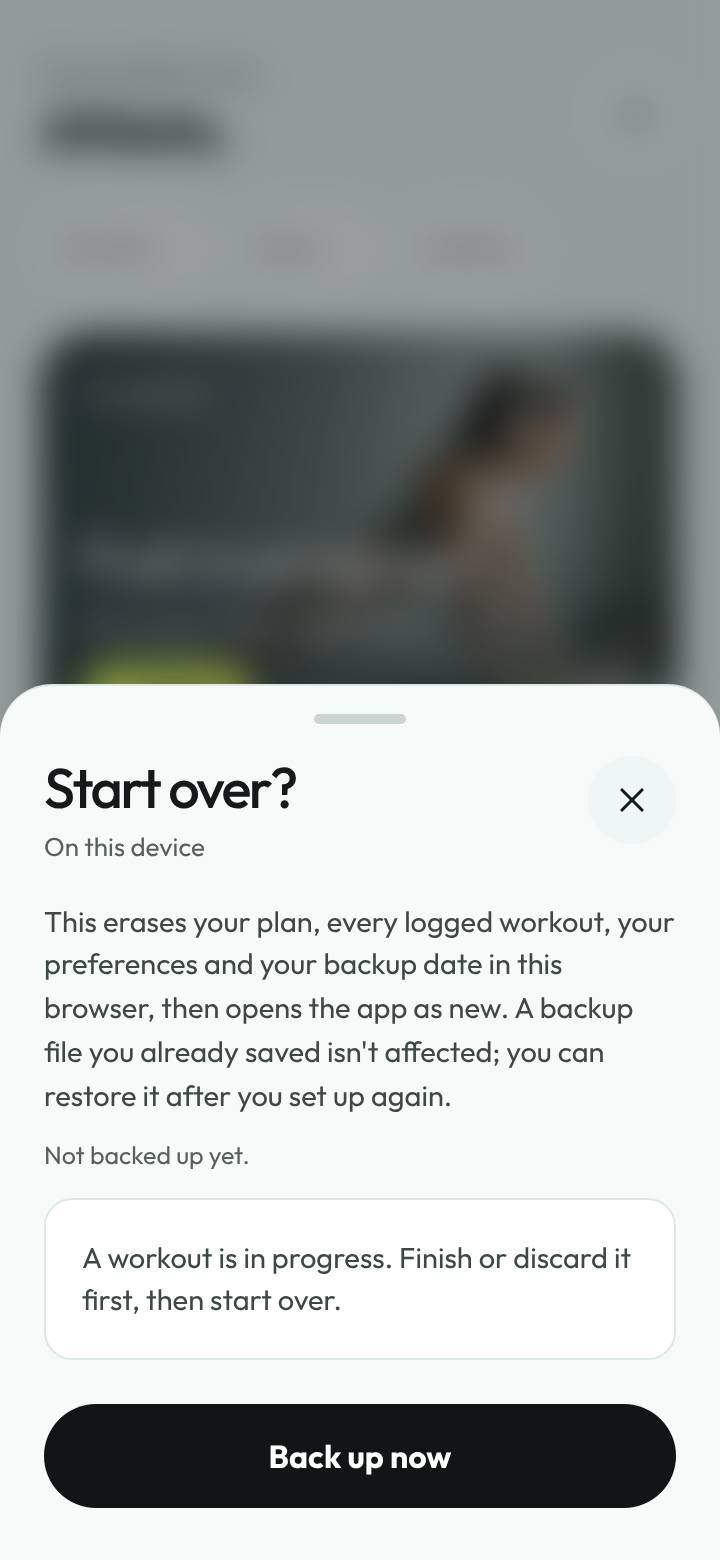
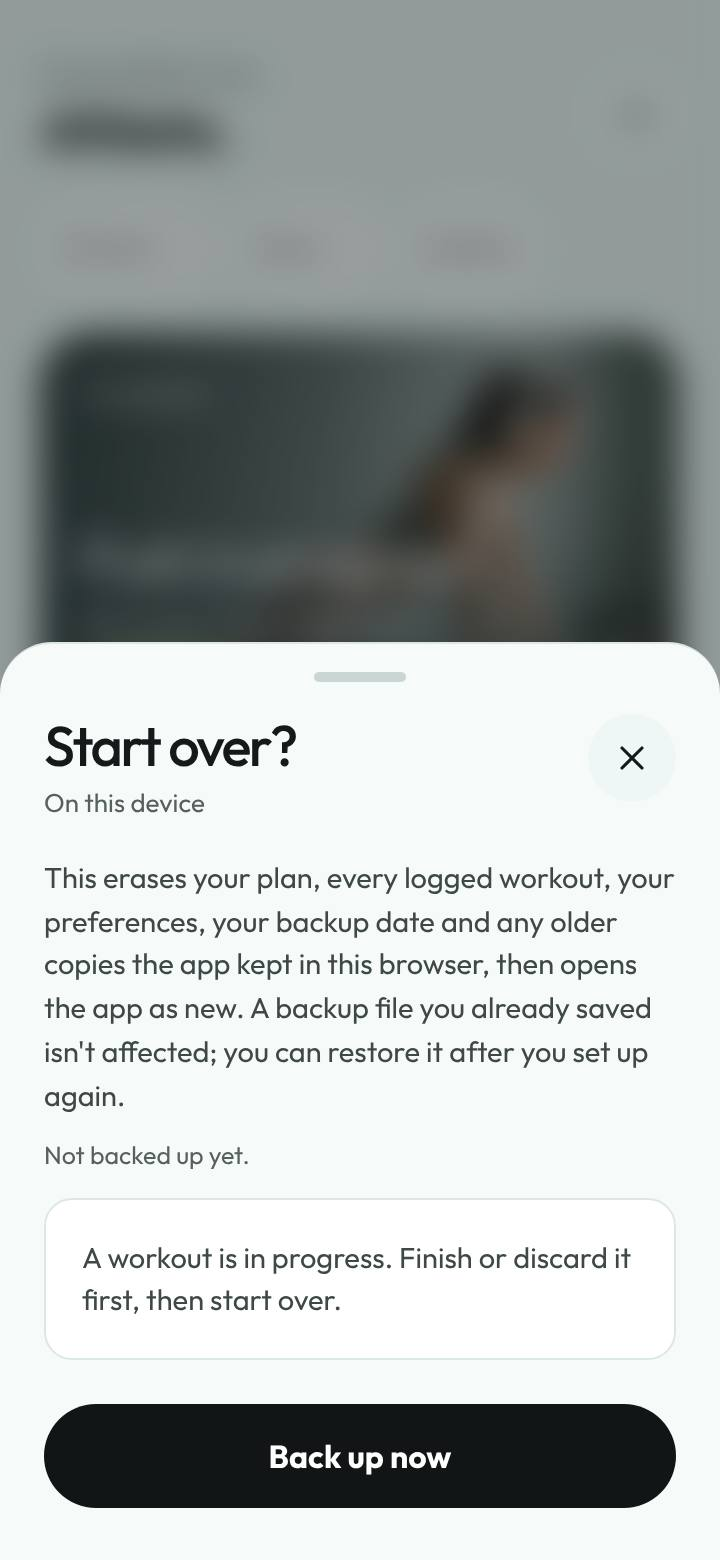
fix: Start over erases every key the app owns, not just two (#263)
fitbod-clone-v1:corrupt-backup holds old profile data, so erasing only
the record and its legacy copy left part of the old profile behind.
eraseLocalData now collects fitbod-clone-v1 and every fitbod-clone-v1:*
key before removing them, the main record last, and on a refusal names
the keys still stored. Other apps' keys (other-app, fitbod-clone-v2)
stay untouched. The sheet says older copies go too; screenshots
refreshed.

Claude-Session: https://claude.ai/code/session_01LzbJhBTy2WSPNAhmn6bBfG

Changed region(s): [[0.0, 0.4, 1.0, 0.7077]]

diff --git a/tests/startOver263.test.ts b/tests/startOver263.test.ts
@@ -44,18 +44,18 @@ function memoryStore(entries: Record<string, string> = {}, fail: { remove?: stri
 
 /* ---------- T1: eraseLocalData ---------- */
 
-test('erase removes exactly the app keys and leaves every other key alone', () => {
+test('erase removes every key the app owns and leaves other apps alone', () => {
   const store = memoryStore({
     [STORAGE_KEY]: '{"saved":true}',
     [LEGACY_BACKUP_KEY]: '{"old":true}',
+    'fitbod-clone-v1:corrupt-backup': '{"profile":{"name":"Old"}}',
+    'fitbod-clone-v1:anything-later': 'x',
     'other-app': 'keep',
-    'fitbod-clone-v1:corrupt-backup': 'keep too',
+    'fitbod-clone-v2': 'keep too',
+    'fitbod-clone-v1-extra': 'not ours either',
   });
   assert.deepEqual(eraseLocalData(store), { ok: true });
-  assert.deepEqual([...store.map.entries()].sort(), [
-    ['fitbod-clone-v1:corrupt-backup', 'keep too'],
-    ['other-app', 'keep'],
-  ]);
+  assert.deepEqual([...store.map.keys()].sort(), ['fitbod-clone-v1-extra', 'fitbod-clone-v2', 'other-app']);
 });
 
 test('erase succeeds when the keys were never written (nothing to remove)', () => {
@@ -64,22 +64,26 @@ test('erase succeeds when the keys were never written (nothing to remove)', () =
   assert.equal(store.map.get('other-app'), 'keep');
 });
 
-test('storage that refuses the erase reports it, with a way forward, and keeps the plan and workouts', () => {
-  for (const remove of [LEGACY_BACKUP_KEY, STORAGE_KEY, '*']) {
-    const store = memoryStore({ [STORAGE_KEY]: 'data', [LEGACY_BACKUP_KEY]: 'old' }, { remove });
+test('storage that throws mid-way says so, names what is left, and the main record goes last', () => {
+  const entries = { [STORAGE_KEY]: 'data', [LEGACY_BACKUP_KEY]: 'old', 'fitbod-clone-v1:corrupt-backup': 'older' };
+  for (const remove of [LEGACY_BACKUP_KEY, 'fitbod-clone-v1:corrupt-backup', STORAGE_KEY, '*']) {
+    const store = memoryStore(entries, { remove });
     const result = eraseLocalData(store);
     assert.equal(result.ok, false, `refused remove of ${remove}`);
     if (!result.ok) {
-      assert.match(result.error, /still here/);
+      assert.deepEqual(result.left, [...store.map.keys()].sort(), 'left names exactly what is still stored');
+      assert.ok(result.left.includes(STORAGE_KEY));
+      assert.match(result.error, /plan and workouts are still here/);
       assert.match(result.error, /Try again|site data/);
     }
     assert.equal(store.map.get(STORAGE_KEY), 'data', 'the main record is never the half that went');
   }
 });
 
-test('unreachable storage, a throwing read and a silent no-op all fail loudly', () => {
+test('unreachable storage, a throwing listing and a silent no-op all fail loudly', () => {
   assert.equal(eraseLocalData(null).ok, false);
-  assert.equal(eraseLocalData(memoryStore({ [STORAGE_KEY]: 'data' }, { get: true })).ok, false);
+  const unlisted = { ...memoryStore({ [STORAGE_KEY]: 'data' }), key: () => { throw new Error('blocked'); }, length: 1 };
+  assert.equal(eraseLocalData(unlisted).ok, false, 'storage that cannot be listed is not erased');
   const stuck = { ...memoryStore({ [STORAGE_KEY]: 'data' }), removeItem: () => undefined };
   assert.equal(eraseLocalData(stuck).ok, false, 'a removal that did not happen is not a success');
 });
@@ -166,7 +170,7 @@ test('the sheet names what goes, spares backup files, and puts Back up now befor
       sessionOpen: false, onBackup: async () => null, onErase: () => ({ ok: true }), onClose: noop,
     }));
     const text = plain(html);
-    assert.match(text, /your plan, every logged workout, your preferences and your backup date/i);
+    assert.match(text, /your plan, every logged workout, your preferences, your backup date and any older copies/i);
     assert.match(text, /this browser/i);
     assert.match(text, /backup file .*isn.t affected/i);
     assert.match(text, /Not backed up yet\./);

diff --git a/src/lib/storage.ts b/src/lib/storage.ts
@@ -190,27 +190,53 @@ export function loadState(): LoadedState {
   return { status: 'migrated', state: result.state, revision: 1, raw };
 }
 
-export type EraseResult = { ok: true } | { ok: false; error: string };
+export type EraseResult = { ok: true } | { ok: false; error: string; left: string[] };
 
-const ERASE_REFUSED =
-  "This browser didn't let the app erase its data. Your plan and workouts are still here. Try again, or clear this site's data in your browser settings.";
+type EraseStore = Pick<Storage, 'key' | 'length' | 'removeItem'>;
+
+/** Every key this app owns: the record itself and its `fitbod-clone-v1:*` copies. Sorted. */
+function appKeys(store: EraseStore): string[] {
+  const keys: string[] = [];
+  for (let index = 0; index < store.length; index += 1) {
+    const key = store.key(index);
+    if (key === STORAGE_KEY || key?.startsWith(`${STORAGE_KEY}:`)) keys.push(key);
+  }
+  return keys.sort();
+}
 
 /**
- * (#263) Start over on this device: remove the app's own two keys and nothing
- * else. The legacy copy goes first, so a refusal never leaves the main record
- * half-erased; each removal is read back, since a no-op is not an erase.
+ * (#263) Start over on this device: remove every key the app owns (the record,
+ * its legacy and corrupt-data copies, any later `fitbod-clone-v1:*` key) and
+ * nothing else. Keys are collected before removing; the main record goes last,
+ * so a refusal never takes it while a copy of old data stays. What is still
+ * stored afterwards is read back and named, since a no-op is not an erase.
  */
-export function eraseLocalData(store: Pick<Storage, 'getItem' | 'removeItem'> | null = storage()): EraseResult {
-  if (!store) return { ok: false, error: ERASE_REFUSED };
-  try {
-    for (const key of [LEGACY_BACKUP_KEY, STORAGE_KEY]) {
-      store.removeItem(key);
-      if (store.getItem(key) !== null) return { ok: false, error: ERASE_REFUSED };
+export function eraseLocalData(store: EraseStore | null = storage()): EraseResult {
+  if (store) {
+    try {
+      const keys = appKeys(store);
+      for (const key of [...keys.filter((key) => key !== STORAGE_KEY), ...keys.filter((key) => key === STORAGE_KEY)]) {
+        store.removeItem(key);
+      }
+      if (appKeys(store).length === 0) return { ok: true };
+    } catch {
+      // Reported below with whatever is still readable.
     }
-  } catch {
-    return { ok: false, error: ERASE_REFUSED };
   }
-  return { ok: true };
+  let left: string[] = [STORAGE_KEY];
+  try {
+    if (store) left = appKeys(store);
+  } catch {
+    // Unreadable: assume the main record is still there.
+  }
+  const kept = left.includes(STORAGE_KEY)
+    ? 'Your plan and workouts are still here.'
+    : 'Your plan and workouts are erased, but an older copy of your data is still in this browser.';
+  return {
+    ok: false,
+    left,
+    error: `This browser didn't let the app erase its data. ${kept} Try again, or clear this site's data in your browser settings.`,
+  };
 }
 
 /**

diff --git a/src/screens/Sheets.tsx b/src/screens/Sheets.tsx
@@ -782,8 +782,8 @@ export function StartOverSheet({
   return (
     <Sheet key="choose" title="Start over?" subtitle="On this device" onClose={onClose}>
       <p className="sheet-copy">
-        This erases your plan, every logged workout, your preferences and your backup date in this browser, then
-        opens the app as new. A backup file you already saved isn't affected; you can restore it after you set up
+        This erases your plan, every logged workout, your preferences, your backup date and any older copies the
+        app kept in this browser, then opens the app as new. A backup file you already saved isn't affected; you can restore it after you set up
         again.
       </p>
       <p className="settings-row__note" role="status" style={{ marginTop: 10 }}>
